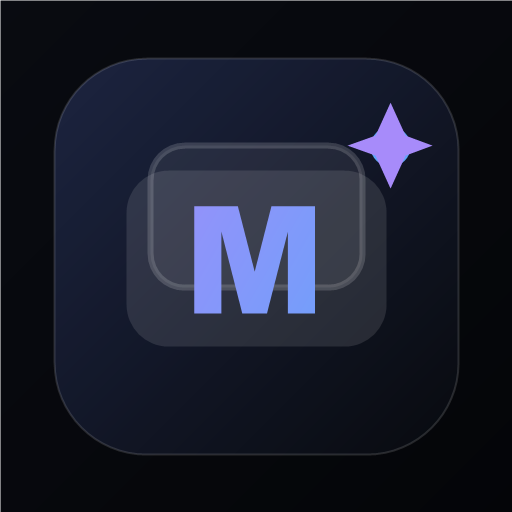
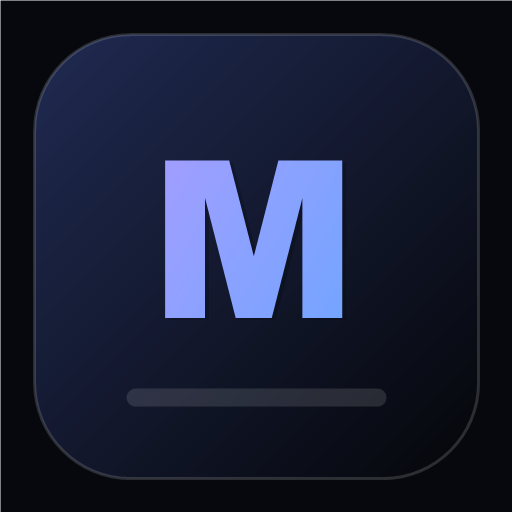
perf: remove nongmem runtime and refine card polish

diff --git a/src/App.jsx b/src/App.jsx
@@ -15,7 +15,6 @@ import Terms from './pages/Terms';
 import { playClickSound, playSwipeSound } from './utils/soundHelper';
 import { speakEnglish } from './utils/speechHelper';
 import { Tutorial } from './components/Tutorial';
-import NongMem from './components/NongMem';
 
 
 function AppContent() {
@@ -171,32 +170,8 @@ function AppContent() {
       return '20:00';
     }
   });
-  const [showNongMem, setShowNongMem] = useState(() => {
-    try {
-      return localStorage.getItem('memeng_show_nong_mem') === 'true';
-    } catch (e) {
-      return false;
-    }
-  });
-  const [nongMemMuted, setNongMemMuted] = useState(() => {
-    try {
-      const val = localStorage.getItem('memeng_nong_mem_muted');
-      return val !== 'false'; // Default to true (Muted) if null/not set
-    } catch (e) {
-      return true;
-    }
-  });
-
   const [isTutorialActive, setIsTutorialActive] = useState(false);
   const pageSwipeEnabled = !isTutorialActive && !menuOpen;
-
-  useEffect(() => {
-    const handleMuteChange = (e) => {
-      setNongMemMuted(e.detail);
-    };
-    window.addEventListener('nongmem-mute-change', handleMuteChange);
-    return () => window.removeEventListener('nongmem-mute-change', handleMuteChange);
-  }, []);
 
   useEffect(() => {
     const handleActiveChange = (e) => {
@@ -1450,7 +1425,6 @@ function AppContent() {
         )}
       </AnimatePresence>
       
-      <NongMem />
       <Tutorial />
     </div>
   );

diff --git a/src/pages/Purge.jsx b/src/pages/Purge.jsx
@@ -1194,7 +1194,12 @@ const Purge = () => {
       const res = await fetchVocabImage(searchPrompt, 'photo', exclude);
       if (res && res.url) {
         setSessionQueue(prev => prev.map(w => w.id === wordObj.id ? { ...w, videoUrl: res.url } : w));
-        updateWordProperties(wordObj.id, { videoUrl: res.url });
+        try {
+          await updateWordProperties(wordObj.id, { videoUrl: res.url });
+        } catch (syncErr) {
+          console.warn('Image changed locally, but syncing the new image failed:', syncErr);
+        }
+        showToast('เปลี่ยนรูปใหม่แล้ว');
       } else {
         showToast('ไม่พบรูปภาพอื่นเพิ่มเติมสำหรับคำนี้ครับ');
       }
@@ -4282,17 +4287,20 @@ const Purge = () => {
                   >
                     {/* Diagonal Glass Shine Sweep Effect */}
                     {theme !== 'theme-3' && !startHovered && (
-                      <div
+                      <motion.div
+                        animate={{ x: ['-120%', '240%'] }}
+                        transition={{ repeat: Infinity, duration: 4.8, ease: 'linear', repeatDelay: 1.4 }}
                         style={{
                           position: 'absolute',
                           top: 0,
                           left: 0,
-                          width: '46%',
+                          width: '42%',
                           height: '100%',
-                          background: 'linear-gradient(90deg, rgba(255,255,255,0.10) 0%, rgba(255,255,255,0.035) 62%, rgba(255,255,255,0) 100%)',
+                          background: 'linear-gradient(90deg, rgba(255,255,255,0) 0%, rgba(255,255,255,0.11) 50%, rgba(255,255,255,0) 100%)',
                           transform: 'skewX(-18deg)',
                           pointerEvents: 'none',
-                          zIndex: 2
+                          zIndex: 2,
+                          willChange: 'transform'
                         }}
                       />
                     )}